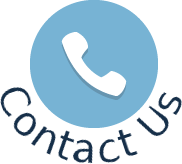
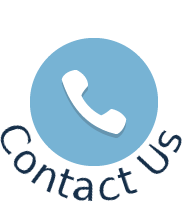
update about and packaet div

diff --git a/app/assets/javascripts/home/main.js b/app/assets/javascripts/home/main.js
@@ -1,14 +1,75 @@
+var storyAngle = 0;
+var contactAngle = 0;
+var storyInterval;
+var contactInterval;
+
 $(document).ready(function(){
 	$(".main").onepage_scroll({
-        	sectionContainer: "div.scroll",
-        	easing: "ease",
-        	responsiveFallback: 600,
-        	loop: true,
-        	pagination: false,
-      	});
+    	sectionContainer: "div.scroll",
+    	easing: "ease",
+    	responsiveFallback: 600,
+    	loop: true,
+    	pagination: false,
+	});
+
+    $("#story-img").hover(function(){
+        console.log("In Hover Story");
+        window.clearInterval(storyInterval);
+    }, function(){
+        console.log("Out of Hover Story");
+        setStoryInterval();
+        //story
+    });
+
+    $("#contact-img").hover(function(){
+        console.log("In Hover Contact");
+        window.clearInterval(contactInterval);
+    }, function(){
+        console.log("Out of Hover Contact");
+        setContactInterval();
+    });
+
+    setStoryInterval();
+    setContactInterval();
 });
+
+function setStoryInterval(){
+    storyInterval = window.setInterval(function(){
+        if(storyAngle == 360){
+            storyAngle = 0;
+        }
+
+        rotate(storyAngle, "story-img");
+        storyAngle += 1;
+    }, 10);
+}
+
+function setContactInterval(){
+    contactInterval = window.setInterval(function(){
+        if(contactAngle == 360){
+            contactAngle = 0;
+        }
+
+        rotate(contactAngle, "contact-img");
+        contactAngle += 1;
+    }, 10);
+}
+
+function rotate(degrees, id){
+    $("#" + id).css(
+        {
+            '-webkit-transform' : 'rotate('+ degrees +'deg)',
+            '-moz-transform' : 'rotate('+ degrees +'deg) ',
+            '-ms-transform' : 'rotate('+ degrees +'deg) ',
+            'transform' : 'rotate('+ degrees +'deg) '
+        }
+    );
+}
 
 function scroll(index){
 	console.log(index);
 	$(".main").moveTo(index);
 }
+
+
+

diff --git a/app/assets/stylesheets/home/about.css.scss b/app/assets/stylesheets/home/about.css.scss
@@ -5,89 +5,17 @@
 	background-color: #ffffff;
 	width: 97%;
 	margin-left: 1.5%;
-	position: relative;
 
-	#our-story{
+	.about-div{
 		width: 50%;
 		height: 100%;
 		float:left;
-		img{
-			display: block;
-			position: absolute;
-   			top: 50%;
-			transform: translate(100%, -50%);
-		}
-	}
+		text-align: center;
 
-	#contact-us{
-		width: 50%;
-		height: 100%;
-		float: left;
 		img{
-			display: block;
-			position: absolute;
-   			top: 50%;
-			transform: translate(100%, -50%);
+			top: 50%;
 		}
-	}
 
-/*
-	#about-table{
-		width: 100%;
-		background-color: #ffffff;
-		font-style: oblique;
-		color: #42coff;
 	}
-	
-	#about-top-table
-	{
-		width: 100%;
-	}
-	
-	#about-main-table
-	{
-		width: 100%;
-		height: 82%;
-		border-style: inset;
-		border-width: 10px;
-		
-		td
-		{
-			width: 672px;
-		}
-		#Box1
-		{
-			background-image: image-url('home/design/makefg1.png');
-			background-size: 25% 50%;
-			background-repeat: no-repeat;
-			background-position: center;
-		}
-		#Box2
-		{
-			background-image: image-url('home/design/makefg.png');
-			background-size: 25% 50%;
-			background-repeat: no-repeat;
-			background-position: center;
-		}
-		
-		#Box1:hover{
-			background-image: image-url('home/design/whitepaper1.jpg');
-			background-size:100% 100%;
-			background-repeat: no-repeat;
-			height: 400px;
-			width: 1325px;
-		}
-		
-		#Box2:hover{
-			background-image: image-url('home/design/white.jpg');
-			background-size: 100% 100%;
-			background-repeat: no-repeat;
-			height: 400px;
-			width: 1325px;
-		}
-		
-	}
-	
-	*/
 
 }

diff --git a/app/assets/stylesheets/home/packet.css.scss b/app/assets/stylesheets/home/packet.css.scss
@@ -16,7 +16,7 @@
 			position: fixed;
 			z-index: 50;
 			height: 100%;
-			margin-left: 10px;
+			margin-left: 30px;
 			margin-top: 30px;
 		}
 
@@ -24,7 +24,7 @@
 			position: fixed;
 			z-index: 30;
 			height: 100%;
-			margin-left: 20px;
+			margin-left: 40px;
 			margin-top: 30px;
 		}
 
@@ -32,7 +32,7 @@
 			position: fixed;
 			z-index: 10;
 			height: 100%;
-			margin-left: 40px;
+			margin-left: 50px;
 			margin-top: 30px;
 		}
 
@@ -40,7 +40,7 @@
 			position: fixed;
 			z-index: 0;
 			height: 100%;
-			margin-left: 50px;
+			margin-left: 60px;
 			margin-top: 30px;
 		}
 
@@ -59,6 +59,7 @@
 
 					#top-tab{
 						margin-top: 5%;
+						margin-left: 50px;
 						position: fixed;
 						z-index: 60;
 					}
@@ -79,7 +80,7 @@
 						padding-right: 10px;
 						padding-top: 5px;
 						padding-bottom: 5px;
-
+						padding-left: -20px;
 						margin-bottom: 0px;
 					}
 
@@ -135,10 +136,10 @@
 					}
 
 					#blue-tab{
-						text-align: right;
+						text-align: left;
 						border: none;
-						width: 425px;
-						background-image: image-url('home/design/green-tab.png');
+						width: 550px;
+						background-image: image-url('home/design/page-marker.png');
 						background-size: 100% 100%;
 						background-repeat: no-repeat;
 					}
